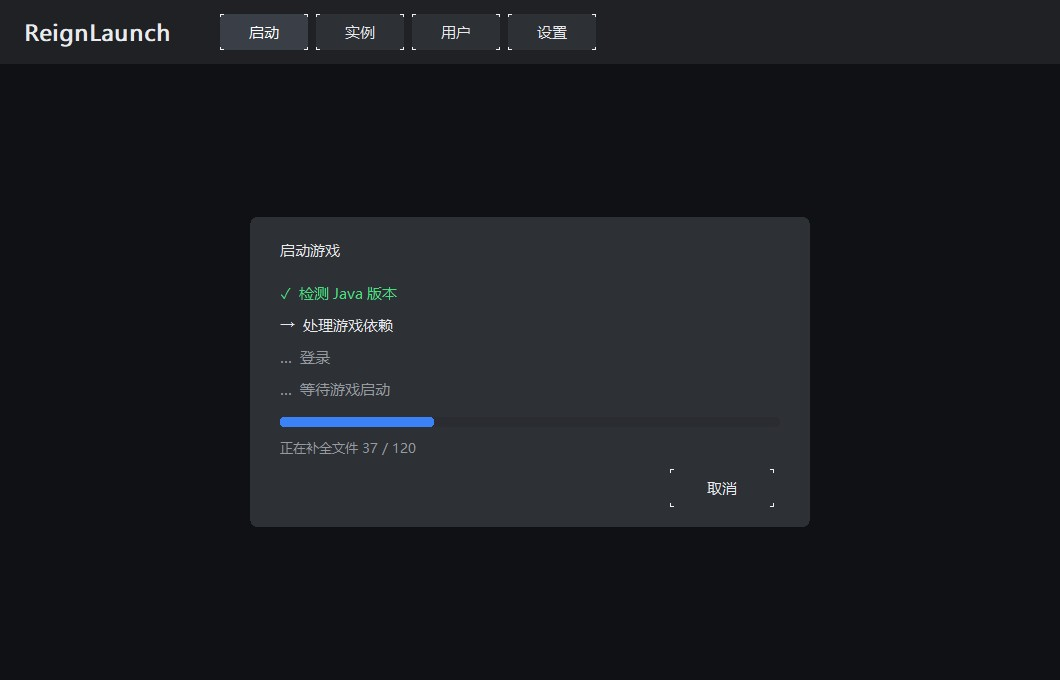
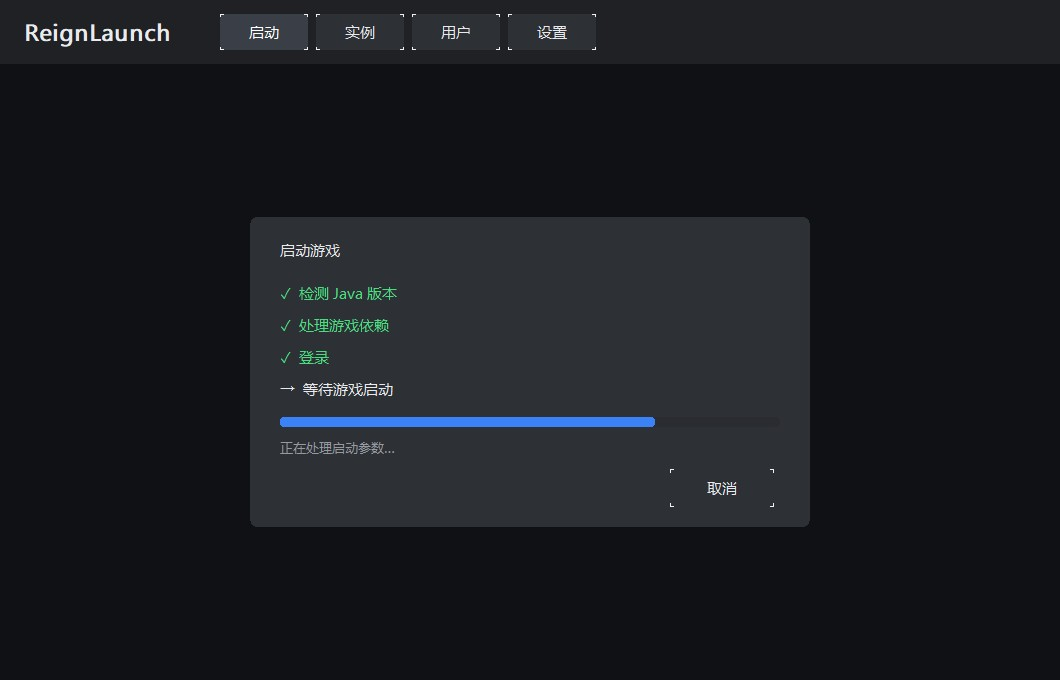
feat: progress only completes when game window appears; auto-hide overlay

Changed region(s): [[0.4047, 0.5868, 0.6226, 0.6485], [0.2802, 0.4632, 0.3736, 0.5868], [0.2802, 0.6485, 0.4047, 0.6794]]

diff --git a/src/ReignLaunch.cpp b/src/ReignLaunch.cpp
@@ -78,6 +78,7 @@ static std::atomic<int> g_progTotal{ 0 };
 static bool g_overlay = false;                       // 启动浮层
 static std::atomic<int>  g_stepCur{ 0 };             // 已完成步骤 0..4
 static std::atomic<bool> g_cancelLaunch{ false };
+static DWORD g_overlayDoneTick = 0;   // 全部步骤完成的时刻，用于自动收起浮层
 static int         g_dpi = 96;
 
 static std::mutex               g_logMutex;
@@ -1049,6 +1050,33 @@ static void PumpOutput(HANDLE hRead) {
     CloseHandle(hRead);
 }
 
+// 等游戏窗口真正出现（不是进程创建就算完成）
+struct WinWaitCtx { DWORD pid; bool found; };
+
+static BOOL CALLBACK FindGameWindowProc(HWND h, LPARAM lp) {
+    WinWaitCtx* c = (WinWaitCtx*)lp;
+    DWORD wp = 0;
+    GetWindowThreadProcessId(h, &wp);
+    if (wp != c->pid) return TRUE;
+    if (!IsWindowVisible(h)) return TRUE;
+    wchar_t title[256] = {0};
+    GetWindowTextW(h, title, 256);
+    if (wcslen(title) == 0) return TRUE;
+    c->found = true;
+    return FALSE;
+}
+
+static bool WaitForGameWindow(DWORD pid, int timeoutMs) {
+    DWORD start = GetTickCount();
+    while (GetTickCount() - start < (DWORD)timeoutMs) {
+        WinWaitCtx c{ pid, false };
+        EnumWindows(FindGameWindowProc, (LPARAM)&c);
+        if (c.found) return true;
+        if (g_cancelLaunch) return false;
+        Sleep(250);
+    }
+    return false;
+}
 static void LaunchThread(std::string versionId) {
     g_launching = true;
     Log("=========== 启动 " + versionId + " ===========");
@@ -1171,11 +1199,24 @@ static void LaunchThread(std::string versionId) {
     }
 
     g_progState = 0;
-    g_stepCur = 4;   // 全部完成
-    if (g_hwnd) PostMessageW(g_hwnd, WM_APP_DONE, 0, 0);
-    Log("[成功] 游戏已启动，PID=" + std::to_string(pi.dwProcessId));
+    Log("[成功] 游戏进程已创建，PID=" + std::to_string(pi.dwProcessId) + "，等待游戏窗口…");
     CloseHandle(pi.hThread);
     g_gameProc = pi.hProcess;
+
+    // 第四步「等待游戏启动」：等窗口真的出现才打勾
+    {
+        DWORD gamePid = pi.dwProcessId;
+        std::thread waiter([gamePid]() {
+            if (WaitForGameWindow(gamePid, 180000)) {
+                g_stepCur = 4;
+                if (g_hwnd) PostMessageW(g_hwnd, WM_APP_DONE, 0, 0);
+                Log("[成功] 游戏窗口已出现");
+            } else {
+                Log("[提示] 等待 180 秒仍未检测到游戏窗口（可能已崩溃，请看日志）");
+            }
+        });
+        waiter.detach();
+    }
 
     std::thread reader(PumpOutput, rd);
     reader.detach();
@@ -2423,6 +2464,7 @@ static LRESULT CALLBACK MainProc(HWND hwnd, UINT msg, WPARAM wp, LPARAM lp) {
             {
                 std::string ver = g_versions[g_selVersion];
                 g_overlay = true;
+                g_overlayDoneTick = 0;
                 g_stepCur = 0;
                 g_cancelLaunch = false;
                 g_launching = true;
@@ -2622,6 +2664,8 @@ static LRESULT CALLBACK MainProc(HWND hwnd, UINT msg, WPARAM wp, LPARAM lp) {
         return 0;
 
     case WM_APP_DONE:
+        if (g_overlay && g_stepCur.load() >= 4 && g_overlayDoneTick == 0)
+            g_overlayDoneTick = GetTickCount();
         InvalidateRect(hwnd, nullptr, FALSE);
         return 0;
 
@@ -2629,7 +2673,12 @@ static LRESULT CALLBACK MainProc(HWND hwnd, UINT msg, WPARAM wp, LPARAM lp) {
         if (g_overlay) {
             if (g_stepCur.load() >= 4) {
                 SetWindowTextW(hBtnOverlayCancel, L"关闭");
-                if (!g_launching) { g_overlay = false; ApplyOverlayVisibility(); }
+                // 窗口已出现：1.5 秒后自动收起，让主界面可用
+                if (g_overlayDoneTick && GetTickCount() - g_overlayDoneTick > 1500) {
+                    g_overlay = false;
+                    g_overlayDoneTick = 0;
+                    ApplyOverlayVisibility();
+                }
             }
             InvalidateRect(hwnd, nullptr, FALSE);
         }
